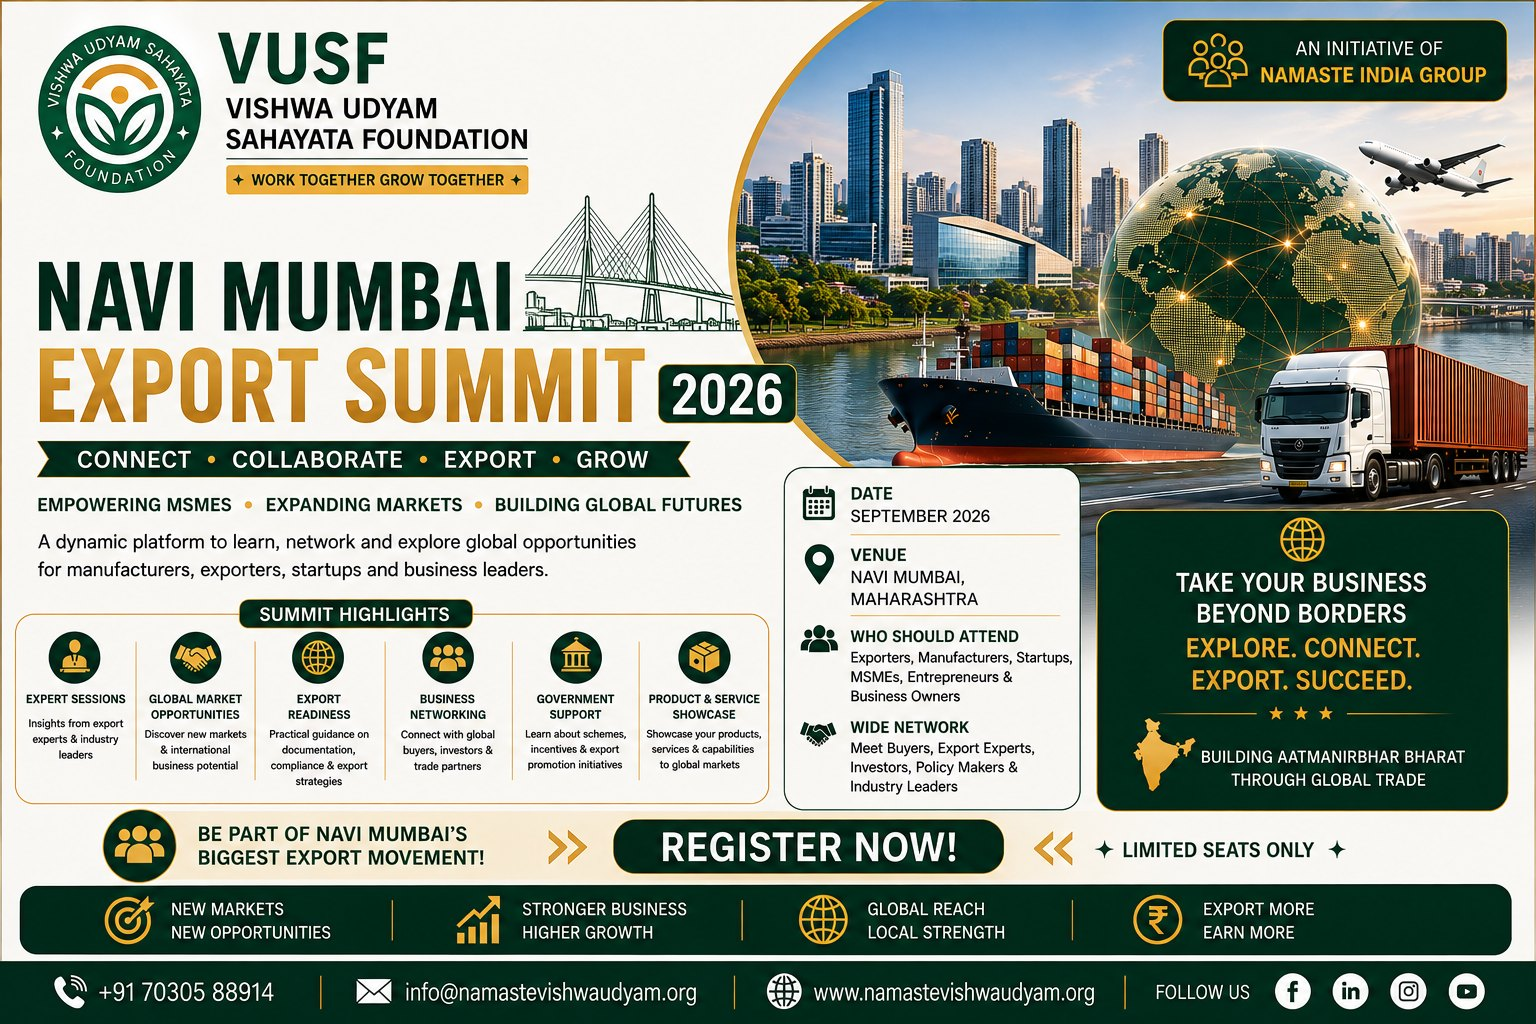
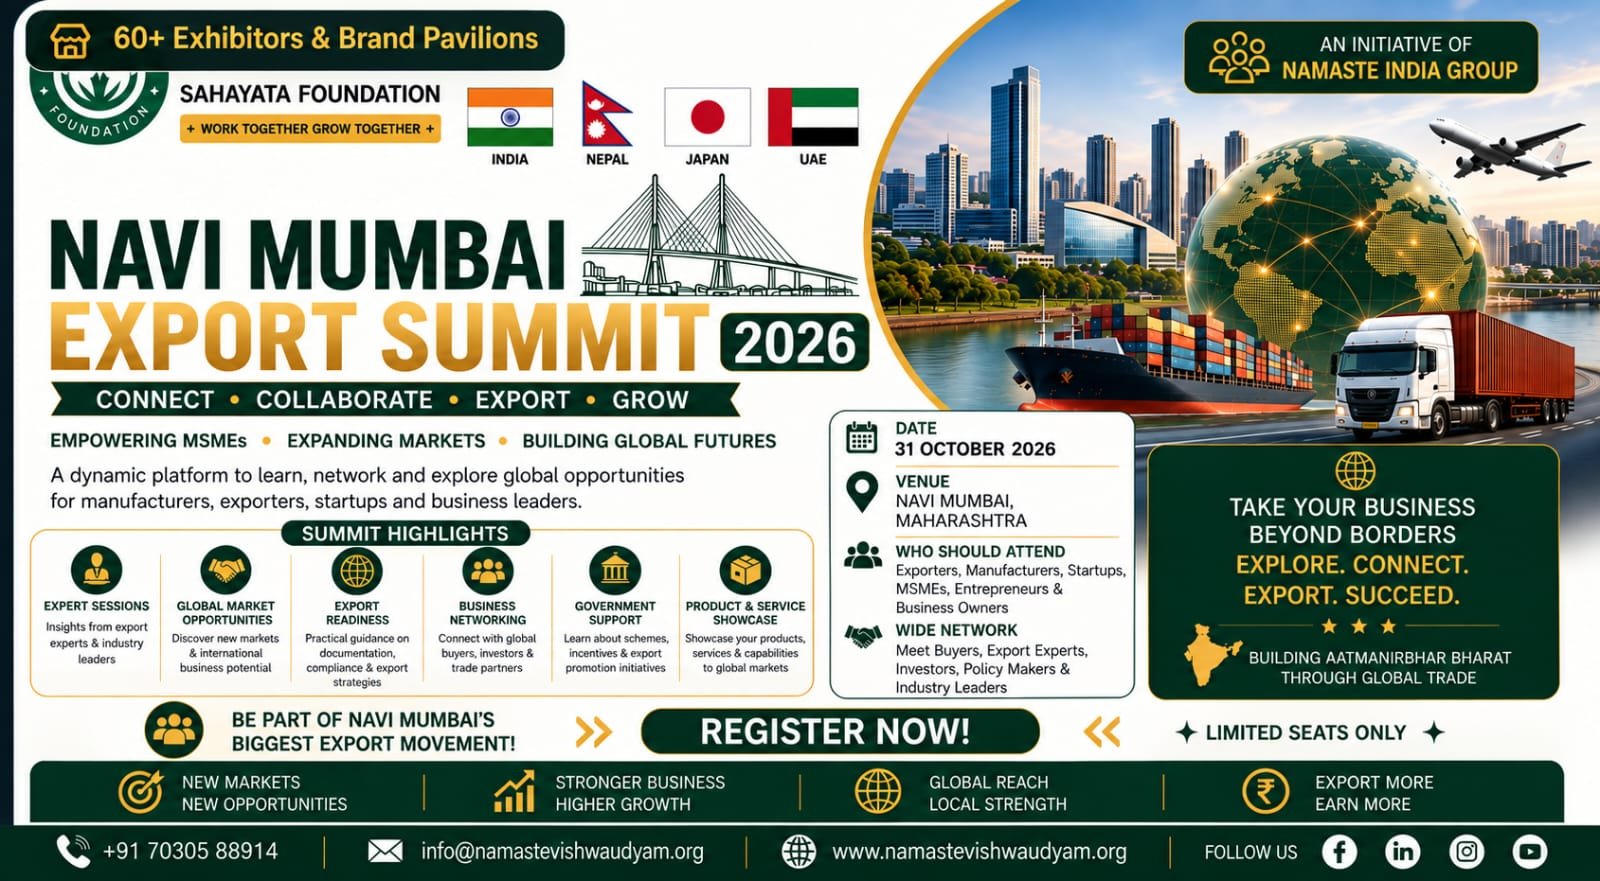
e=navi mumbai expo2

diff --git a/src/pages/events/NaviMumbaiExportSummitPage.tsx b/src/pages/events/NaviMumbaiExportSummitPage.tsx
@@ -153,6 +153,13 @@ export const NaviMumbaiExportSummitPage: React.FC<NaviMumbaiExportSummitPageProp
         resolve(true);
         return;
       }
+      const existingScript = document.querySelector('script[src*="checkout.razorpay.com"]');
+      if (existingScript) {
+        existingScript.addEventListener('load', () => resolve(true));
+        existingScript.addEventListener('error', () => resolve(false));
+        if ((window as any).Razorpay) resolve(true);
+        return;
+      }
       const script = document.createElement('script');
       script.src = 'https://checkout.razorpay.com/v1/checkout.js';
       script.onload = () => resolve(true);
@@ -163,6 +170,7 @@ export const NaviMumbaiExportSummitPage: React.FC<NaviMumbaiExportSummitPageProp
 
   const handleProceedToPayment = async (e: React.FormEvent) => {
     e.preventDefault();
+    if (isProcessingPayment) return;
     setApiError(null);
     if (!validateForm()) return;
 
@@ -254,13 +262,23 @@ export const NaviMumbaiExportSummitPage: React.FC<NaviMumbaiExportSummitPageProp
         throw new Error('Razorpay Key missing. Please check payment gateway configuration.');
       }
 
+      // Razorpay expects amount in paise matching the backend order exactly
+      const rawAmount = orderData.amount || totalPayable;
+      const razorpayAmount = rawAmount < 10000 ? rawAmount * 100 : rawAmount;
+
+      // Ensure logo image is a valid HTTPS URL to avoid iframe Mixed Content reloads
+      const logoUrl =
+        window.location.protocol === 'https:'
+          ? `${window.location.origin}/banner/navi-mumbai-export-summit.jpeg`
+          : 'https://www.namasteindiagroup.org/img/vlogo.png';
+
       const options = {
         key: razorpayKey,
-        amount: totalPayable * 100,
-        currency: 'INR',
+        amount: razorpayAmount,
+        currency: orderData.currency || 'INR',
         name: 'Navi Mumbai Export Summit 2026',
         description: `${currentPass.name} - Fortune Select Exotica, Navi Mumbai / ITC Hotel`,
-        image: '/banner/navi-mumbai-export-summit.jpeg',
+        image: logoUrl,
         order_id: razorpayOrderId,
         prefill: {
           name: formData.fullName,

diff --git a/index.html b/index.html
@@ -46,6 +46,9 @@
     <link rel="preconnect" href="https://fonts.googleapis.com">
     <link rel="preconnect" href="https://fonts.gstatic.com" crossorigin>
     <link href="https://fonts.googleapis.com/css2?family=Plus+Jakarta+Sans:wght@300;400;500;600;700;800&family=Playfair+Display:ital,wght@0,600;0,700;1,400;1,600&display=swap" rel="stylesheet">
+
+    <!-- Razorpay Checkout SDK -->
+    <script src="https://checkout.razorpay.com/v1/checkout.js"></script>
   </head>
   <body class="bg-white text-slate-800 antialiased selection:bg-orange-500 selection:text-white">
     <div id="root"></div>
